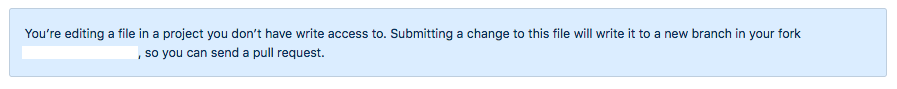
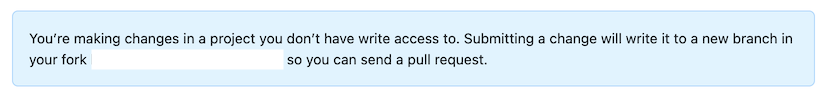
User PR instructions (#444)
* Add in "edit in Github" link to all views

And I guess, also, file format.

* Update tutorial images for creating a PR

* Update PR tutorial copy

* Add a bit of copy to contributor guidelines

Changed region(s): [[0.0, 0.0899, 1.0, 0.8764]]

diff --git a/docs/source/conf.py b/docs/source/conf.py
@@ -30,47 +30,49 @@
 # Add any Sphinx extension module names here, as strings. They can be
 # extensions coming with Sphinx (named 'sphinx.ext.*') or your custom
 # ones.
-extensions = ['sphinx.ext.intersphinx']
+extensions = ["sphinx.ext.intersphinx"]
 
-intersphinx_mapping = {'elf': ('https://lookit.readthedocs.io/projects/frameplayer/en/latest/', None)}
+intersphinx_mapping = {
+    "elf": ("https://lookit.readthedocs.io/projects/frameplayer/en/latest/", None)
+}
 
 # Add any paths that contain templates here, relative to this directory.
-templates_path = ['_templates']
+templates_path = ["_templates"]
 
 # The suffix(es) of source filenames.
 # You can specify multiple suffix as a list of string:
 #
-source_suffix = ['.rst', '.md']
+source_suffix = [".rst", ".md"]
 
 from recommonmark.parser import CommonMarkParser
 
 source_parsers = {
-    '.md': CommonMarkParser,
+    ".md": CommonMarkParser,
 }
 
 # The master toctree document.
-master_doc = 'index'
+master_doc = "index"
 
 # General information about the project.
-project = 'CHS/Lookit'
-copyright = '2017, Center for Open Science and MIT'
-author = 'Center for Open Science, MIT'
+project = "CHS/Lookit"
+copyright = "2017, Center for Open Science and MIT"
+author = "Center for Open Science, MIT"
 
 # The version info for the project you're documenting, acts as replacement for
 # |version| and |release|, also used in various other places throughout the
 # built documents.
 #
 # The short X.Y version.
-version = ''
+version = ""
 # The full version, including alpha/beta/rc tags.
-release = ''
+release = ""
 
 # The language for content autogenerated by Sphinx. Refer to documentation
 # for a list of supported languages.
 #
 # This is also used if you do content translation via gettext catalogs.
 # Usually you set "language" from the command line for these cases.
-language = 'en'
+language = "en"
 
 # List of patterns, relative to source directory, that match files and
 # directories to ignore when looking for source files.
@@ -78,7 +80,7 @@ language = 'en'
 exclude_patterns = []
 
 # The name of the Pygments (syntax highlighting) style to use.
-pygments_style = 'sphinx'
+pygments_style = "sphinx"
 
 # If true, `todo` and `todoList` produce output, else they produce nothing.
 todo_include_todos = False
@@ -89,7 +91,7 @@ todo_include_todos = False
 # The theme to use for HTML and HTML Help pages.  See the documentation for
 # a list of builtin themes.
 html_theme = "sphinx_rtd_theme"
-#html_theme_path = ["../_themes"]
+# html_theme_path = ["../_themes"]
 
 # Theme options are theme-specific and customize the look and feel of a theme
 # further.  For a list of options available for each theme, see the
@@ -100,20 +102,26 @@ html_theme = "sphinx_rtd_theme"
 # Add any paths that contain custom static files (such as style sheets) here,
 # relative to this directory. They are copied after the builtin static files,
 # so a file named "default.css" will overwrite the builtin "default.css".
-html_static_path = ['_static']
+html_static_path = ["_static"]
 
 # These paths are either relative to html_static_path
 # or fully qualified paths (eg. https://...)
 html_css_files = [
-    'css/lookit.css',
+    "css/lookit.css",
 ]
 
-html_js_files = [
-    'js/links_in_new_tab.js'
-]
+html_js_files = ["js/links_in_new_tab.js"]
 
 
 # -- Options for HTMLHelp output ------------------------------------------
 
 # Output file base name for HTML help builder.
-htmlhelp_basename = 'lookit-apidoc'
+htmlhelp_basename = "lookit-apidoc"
+
+html_context = {
+    "display_github": True,  # Integrate GitHub
+    "github_user": "lookit",  # Username
+    "github_repo": "lookit-docs",  # Repo name
+    "github_version": "develop",  # Version
+    "conf_py_path": "/docs/source/",  # Path in the checkout to the docs root
+}

diff --git a/docs/source/tutorial-contributing.rst b/docs/source/tutorial-contributing.rst
@@ -14,7 +14,7 @@ Making your first pull request (PR)
 ------------------------------------
 All of the code that makes CHS run is stored on GitHub, which makes it easy to keep track of changes over time and merge changes from many collaborators. There are several code repositories or "repos" that house different pieces of the project. Here we are going to walk through making a change to the documentation repo, `lookit-docs <https://github.com/lookit/lookit-docs>`_. Making a "pull request" or PR is a way to ask that your edits be incorporated into the main codebase. It's actually not too hard, and it's a great way to contribute! 
 
-Don't worry about making a mistake and somehow messing up the documentation - you can't directly edit the "official" version of the files! There is always a review process before your changes are merged in. 
+Don't worry about making a mistake and somehow messing up the documentation - you can't directly edit the "official" version of the files! There is always a review process before your changes are merged in. For further instructions on how to create PRs, please see the `GitHub documentation <https://docs.github.com/en/pull-requests/collaborating-with-pull-requests/proposing-changes-to-your-work-with-pull-requests/creating-a-pull-request-from-a-fork>`_.
 
 1. In a separate tab, go to https://github.com/lookit/lookit-docs and click "Fork" in the top right corner. You'll need to make an account on GitHub if you don't have one already. You only need to do this once - for future changes you can skip this step.
 
@@ -36,12 +36,12 @@ Don't worry about making a mistake and somehow messing up the documentation - yo
    .. image:: _static/img/tutorial/new_branch_message.png
       :alt: New branch message on GitHub
     
-4. Make your changes! For this PR, just add your name and institution to the list of tutorial participants. Click the "Preview changes" tab to make sure everything looks the way you want it to. You can go back and forth between the "Edit file" and "Preview changes" tabs as you make more involved changes.
+4. Make your changes! For this PR, just add your name and institution to the list of tutorial participants. Click the "Preview" button to make sure everything looks the way you want it to. You can go back and forth between the "Edit" and "Preview" selections as you make more involved changes.  
 
    .. image:: _static/img/tutorial/preview_tab.png
       :alt: Preview changes and edit file tabs on GitHub
 
-5. Scroll down to "Propose file change." Enter a short description of your change, and then click the green "Propose file change" button:
+5. Once you're satisfied with your changes, click the green button "Commit changes..." and a pop up window will appear.  Enter a short description of your change, and then click the green "Propose changes" button:
 
    .. image:: _static/img/tutorial/propose_file_change.png
       :alt: Propose file change section on GitHub

diff --git a/docs/source/contributor-guidelines.rst b/docs/source/contributor-guidelines.rst
@@ -22,12 +22,14 @@ To contribute to the `ember-lookit-frameplayer` codebase - e.g., when creating y
 Getting started
 ~~~~~~~~~~~~~~~~~~~
 
-At a high level, we are roughly following a Forking Workflow version of Gitflow `as described here <https://www.atlassian.com/git/tutorials/comparing-workflows/forking-workflow>`__.
+At a high level, we are roughly following a Forking Workflow version of Gitflow `as described here <https://docs.github.com/en/pull-requests/collaborating-with-pull-requests/proposing-changes-to-your-work-with-pull-requests/creating-a-pull-request-from-a-fork>`__.
 
 You should plan to make feature-specific branches off of the ``develop`` branch (for ``lookit-api``, ``lookit-docs``), ``master`` branch (for ``ember-lookit-frameplayer``), or ``main`` branch (for ``lookit-jspsych``) of a local copy of the code running on your own machine. This will keep the codebase as clean as possible.
 
 First create your own fork of ``lookit-api``, ``ember-lookit-frameplayer``, ``lookit-jspsych``, and/or ``lookit-docs``. Follow the directions for installation of ``lookit-api`` or ``ember-lookit-frameplayer`` if needed. 
 
+
+Keep in mind that this project is in active development, and the further your fork is behind our repository, the more complex updating it will be. Please try to keep your code base up to date. If you run into issues with this, feel free to reach out to CHS for help.
 
 Ignoring some files
 ~~~~~~~~~~~~~~~~~~~~
